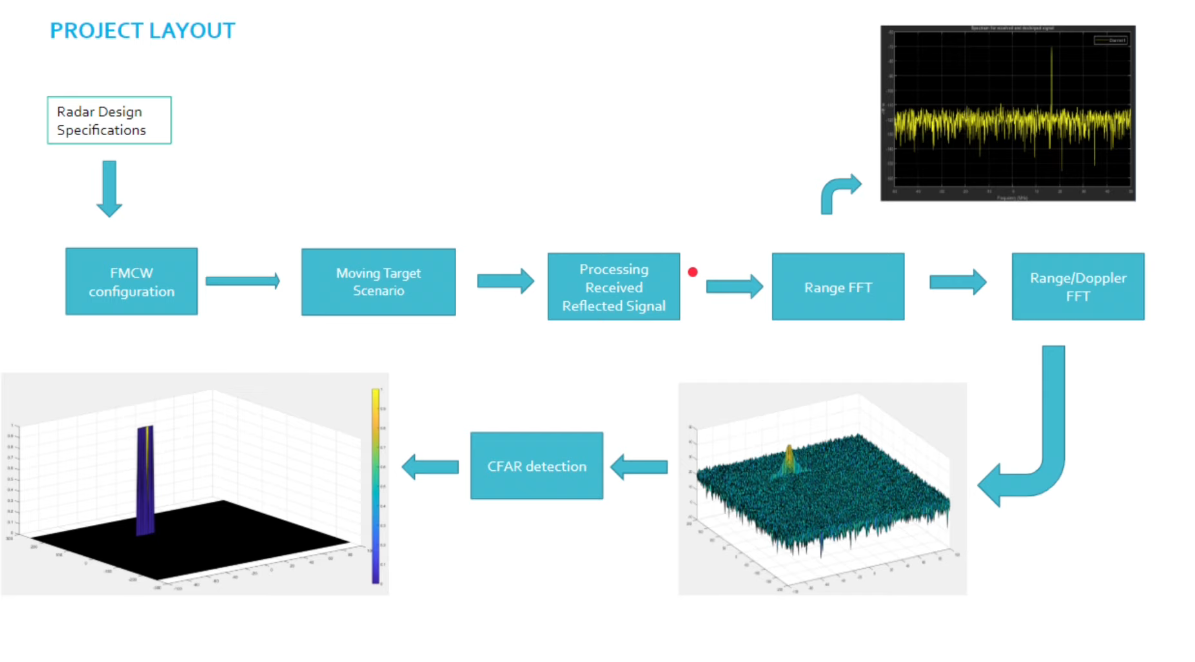
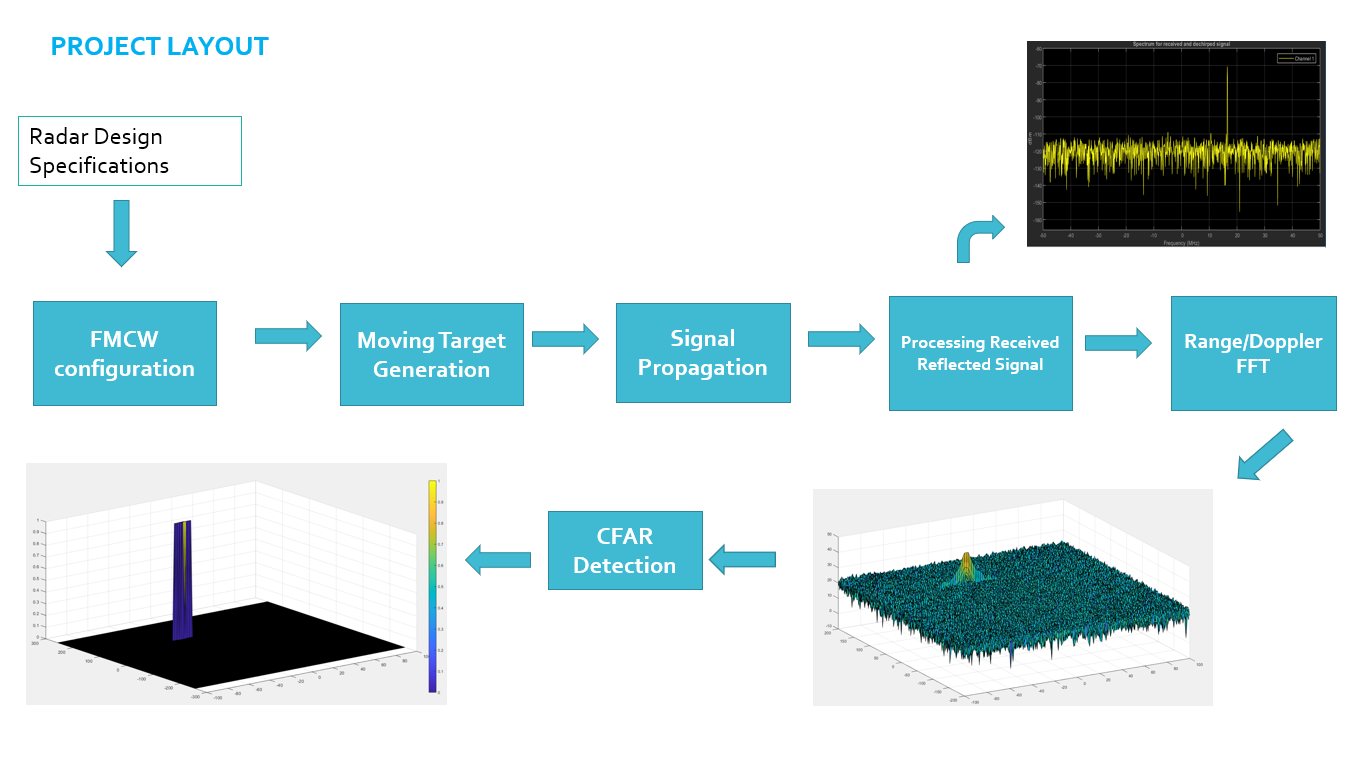
Final Submission

Changed region(s): [[0.0, 0.1208, 0.9908, 0.9063], [0.6812, 0.0302, 0.9908, 0.3323], [0.031, 0.0302, 0.2167, 0.0906]]

diff --git a/README.md b/README.md
@@ -1,17 +1,61 @@
 # Project: Radar Target Generation and Detection
 
 This is the project submission for the "Radar Target Generation and Detection" in the Udacity Sensor Fusion Engineer Nanodegree program.
-|Success Criteria|Specifications|
-|---|---|
-|**Step 1:** FMCW Waveform Design|   |
-| - FMCW waveform||
-| - Bandwidth (B)||
-| - chirp time (Tchirp)||
-| - slope of the chirp||
-|||
-|||
-|||
-|||
-|||
 
 ![01_layout](/assets/01_layout.PNG)
+
+|Success Criteria|Specifications|
+|---|---|
+|**Step 1:** FMCW Waveform Design|&#x2714; Done, The calculated slope was approximately 2e13.  |
+|>> Bandwidth (B), chirp time (T_cpi) and slope of the chirp|&#x2714; Done|
+|**Step 2:** Simulation Loop|&#x2714; Done|
+| **Step 3:** Range FFT (1st FFT)|&#x2714; Done|
+|>> Range FFT implementation on Mixed Signal|&#x2714; Done, The peak was already obtained at correct range.|
+| **Step 4:** 2D CFAR |&#x2714; Done|
+|>> Implementation steps for the 2D CFAR|&#x2714; Done|
+|>> Selection of Training, Guard cells and offset|&#x2714; Done|
+|>> Steps taken to suppress the non-thresholded cells at the edges|&#x2714; Done,|
+
+## Detailed explanations are already given at [MATLAB file](https://github.com/mcitir/SFND_Radar_Target_Generation_Detection/blob/main/Radar_Target_Generation_and_Detection.m). You will only find a summary as requested by [Rubric](https://review.udacity.com/#!/rubrics/2548/view).
+
+### Step 1: FMCW Waveform Design
+Based on the task, the slope is calculated as expected and the value `2e13` was obtained as requested.
+
+### Step 2: Simulation Loop
+The numbers of Doppler cells and range cells were chosen as a power of 2. Thus, this will provide computational efficiency and memory management.  
+```
+Nd = 128; 
+Nr = 1024;
+```
+Here, a time vector `t` that spans from `0` to the total time of the chirp period (`Nd *T_cpi`) with a total of `Nr* Nd` samples. Therefore, `t= linspace(0, Nd*T_cpi,Nr*Nd)` is used for time span calculation. To calculate Range Fast Fourier Transform (FFT) along the range dimension and Doppler FFT along the Doppler dimension, we reshape the mix signal vector into `NxD` array.  
+
+
+### Step 3: Range FFT (1st FFT)
+
+1D FFT was implemented on mixed signal. The steps are implemented:
+
+- Reshape the vector into `NxD` array to define size of range and doppler.
+- Run the FFT on the beat signal along the range bins dimension
+- Absolut value of FFT output
+- Calculate the maximum value (peak) of the signal_fft
+- Normalize
+- Since Output of FFT double-sided, reduce the half of the samples
+- Plot
+
+Output:
+![plot_1](/assets/plot_1.png)
+
+### Step 4: 2D CFAR
+
+The steps are done based on the requested goal:
+
+- Select the number of Training Cells in the both the dimensions
+- Select the number of the Guard cells in the both dimensions around the Cell under test (CUT) for accurate estimation
+- Determine offset the threshold by SNR value in dB
+- Steps taken to suppress the non-thresholded cells at the edges.
+  - Firstly, two outer loop designed to slide through the complete map (matrix). CUT must have a margin from the edges.
+  - Thresholded block is selected as smaller than the Map; to keep the map size same, non-thresholded are assigned a value of 0.
+  - Training cells, Guard cells and offset were selected by an increase or decrease test. 
+
+![plot_2](/assets/plot_2_haehzcgfa.png)
+![plot_3](/assets/plot_3_uy0ibrrnz.png)
